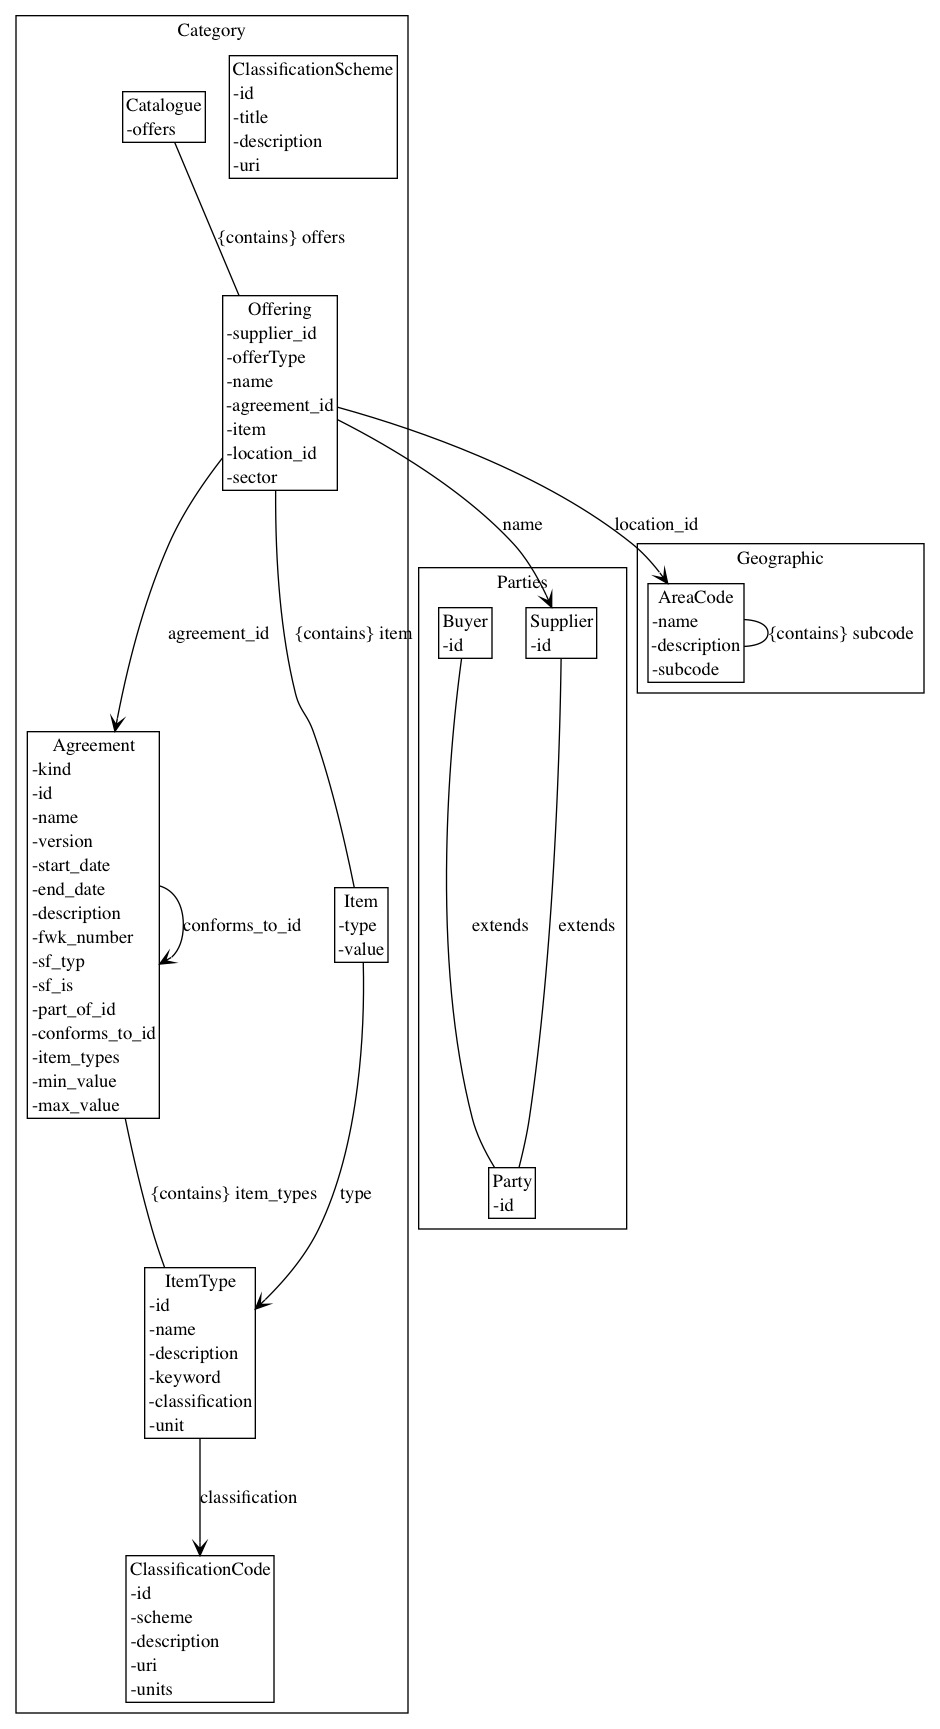
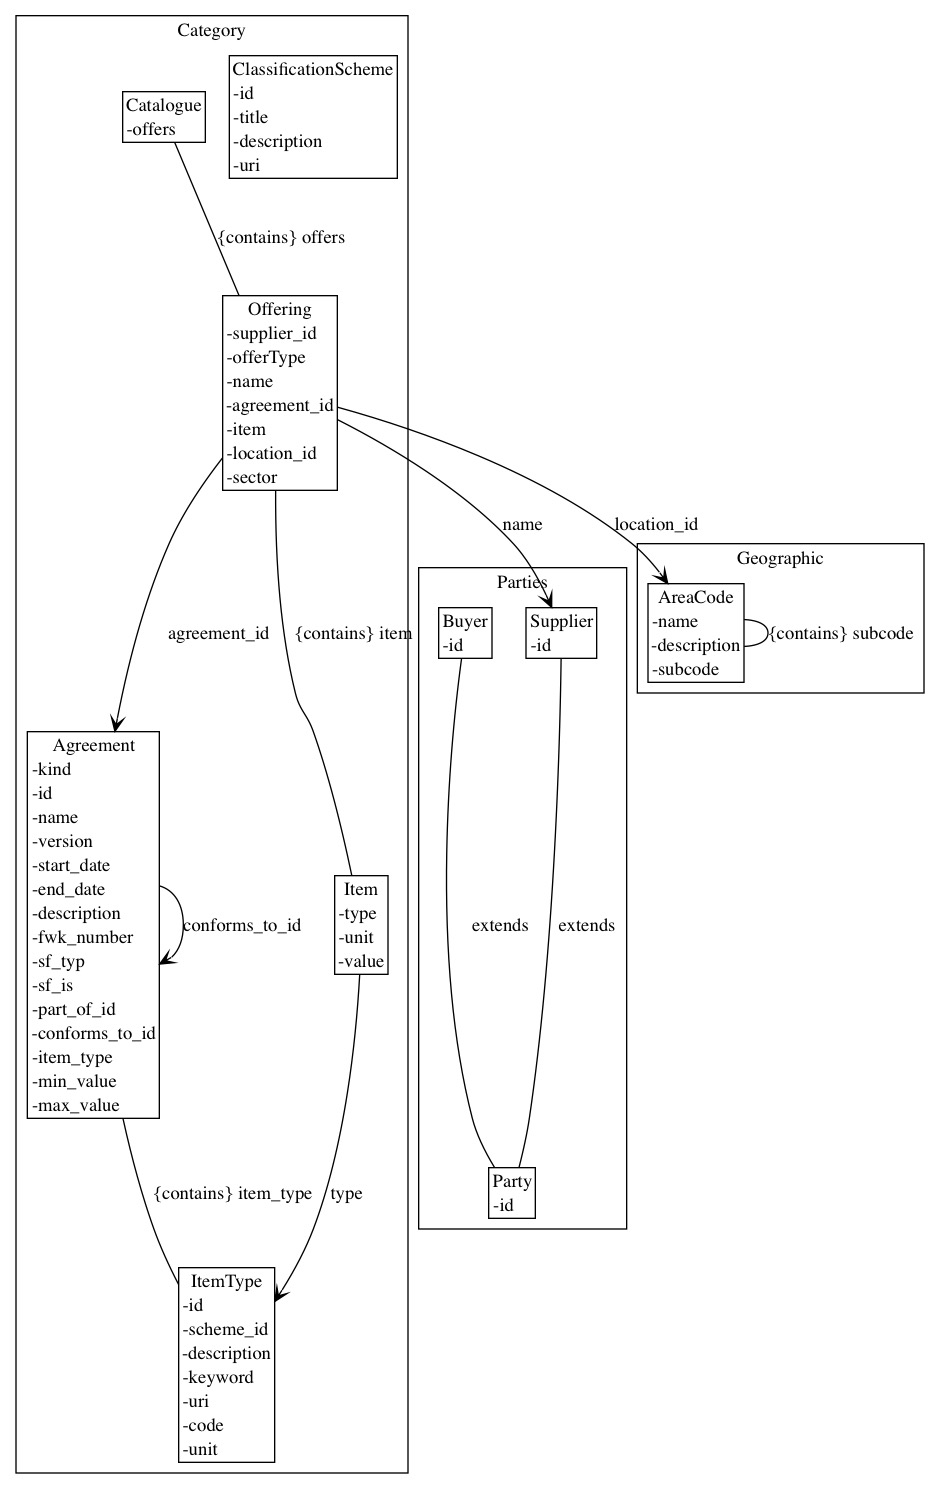
Change fm - simplify item types

diff --git a/agreement-design/model/agreement.rb b/agreement-design/model/agreement.rb
@@ -6,33 +6,26 @@ include DataModel
 domain :Category do
 
   SECTOR = Selection(:ALL, :Education, :CentralGov, :WiderGov, :Etc)
-
+  UNITS = Selection(:Area, :Currency)
   CLASSIFICATION_SCHEMES = Selection(:CPV, :CPVS, :UNSPSC, :CPV, :OKDP, :OKPD, :CCS)
+
   datatype(:ClassificationScheme,
-           description: " Defines the items that can be offered in any given agreement ") {
+           description: " Defines the standards schemes for items ") {
     attribute :id, CLASSIFICATION_SCHEMES, "The classiciation SCHEME id"
     attribute :title, String
     attribute :description, String
     attribute :uri, String, "URL of source. See http://standard.open-contracting.org/latest/en/schema/codelists/#item-classification-scheme"
   }
 
-  datatype(:ClassificationCode,
-           description: " Defines the items that can be offered in any given agreement ") {
-    attribute :id, String, "The code id, which must be unique across all schemes"
-    attribute :scheme, CLASSIFICATION_SCHEMES, "The classiciation scheme id"
-    attribute :description, String
-    attribute :uri, String, ZERO_TO_MANY, " URI for the code "
-    attribute :units, Selection(:Area, :Currency), " define the units, if one units matches "
-  }
-
   datatype(:ItemType,
-           description: " Defines the items that can be offered in any given agreement ") {
-    attribute :id, String
-    attribute :name, String
+           description: " Defines the items that can be offered in any selected agreements ") {
+    attribute :id, String, "The code id, which must be unique across all schemes"
+    attribute :scheme_id, CLASSIFICATION_SCHEMES, "The classiciation scheme id"
     attribute :description, String
     attribute :keyword, String, ZERO_TO_MANY
-    attribute :classification, String, ZERO_TO_MANY, " The classification code drawn from the selected scheme ", links: :ClassificationCode
-    attribute :unit, Selection(:Area, :Currency), " define the units "
+    attribute :uri, String, " URI for the code within the scheme defining this type "
+    attribute :code, String, " Code within the scheme defining this type "
+    attribute :unit, UNITS, " define the units, if one units matches "
   }
 
   datatype(:Agreement,
@@ -55,7 +48,7 @@ domain :Category do
     # structure of agreement
     attribute :part_of_id, String, "Agreement this is part of, applicable only to Lots", links: :Agreement
     attribute :conforms_to_id, String, "Agreement this conforms to, such as a Contract conforming to a Framework", links: :Agreement
-    attribute :item_types, :ItemType, ZERO_TO_MANY,
+    attribute :item_type, :ItemType, ZERO_TO_MANY,
               "describe the items that can be offered under the agreement"
 
     # Qualifications
@@ -66,7 +59,8 @@ domain :Category do
 
   datatype(:Item,
            description: "Specifices the items that are being offered for an agreement") {
-    attribute :type, String, "description of the item", links: :ItemType
+    attribute :type, String, ZERO_TO_MANY, " type of the item ", links: :ItemType
+    attribute :unit, UNITS, " define the units "
     attribute :value, Object, "an object of the type matching type->units"
   }
 

diff --git a/agreement-design/model/fm.rb b/agreement-design/model/fm.rb
@@ -28,15 +28,22 @@ Category.new :FM_Agreements do
     min_value 0
     max_value 70000000
     version "0.1.0"
-    item_types do
+    item_type do
       id ENV_CLEANING
-      name "environmental cleaning service"
+      scheme_id :CCS
       unit :Currency
-      classification "CCS-building-area-method"
+      code "CCS-building-area-method"
       keyword "cleaning"
       keyword "washing"
       keyword "janitor"
     end
+  end
+
+  classificationscheme do
+    id :CCS
+    title "CCS invented schemes"
+    description ""
+    uri ""
   end
 
 end

diff --git a/agreement-design/gen/doc/metamodel.md b/agreement-design/gen/doc/metamodel.md
@@ -1,5 +1,5 @@
 ## ClassificationScheme
-   Defines the items that can be offered in any given agreement 
+   Defines the standards schemes for items 
 
 |attribute|type|multiplicity|description|
 |---------|----|------------|-----------|
@@ -7,27 +7,18 @@
 |title|String|1||
 |description|String|1||
 |uri|String|1|URL of source. See http://standard.open-contracting.org/latest/en/schema/codelists/#item-classification-scheme|
-## ClassificationCode
-   Defines the items that can be offered in any given agreement 
+## ItemType
+   Defines the items that can be offered in any selected agreements 
 
 |attribute|type|multiplicity|description|
 |---------|----|------------|-----------|
 |id|String|1|The code id, which must be unique across all schemes|
-|scheme|(CPV,CPVS,UNSPSC,CPV,OKDP,OKPD,CCS)|1|The classiciation scheme id|
-|description|String|1||
-|uri|String|*| URI for the code |
-|units|(Area,Currency)|1| define the units, if one units matches |
-## ItemType
-   Defines the items that can be offered in any given agreement 
-
-|attribute|type|multiplicity|description|
-|---------|----|------------|-----------|
-|id|String|1||
-|name|String|1||
+|scheme_id|(CPV,CPVS,UNSPSC,CPV,OKDP,OKPD,CCS)|1|The classiciation scheme id|
 |description|String|1||
 |keyword|String|*||
-|classification|String -> Category::ClassificationCode|*| The classification code drawn from the selected scheme |
-|unit|(Area,Currency)|1| define the units |
+|uri|String|1| URI for the code within the scheme defining this type |
+|code|String|1| Code within the scheme defining this type |
+|unit|(Area,Currency)|1| define the units, if one units matches |
 ## Agreement
   General definition of Commercial Agreements
 
@@ -45,7 +36,7 @@
 |sf_is|String|1|SalesForce row id|
 |part_of_id|String -> Category::Agreement|1|Agreement this is part of, applicable only to Lots|
 |conforms_to_id|String -> Category::Agreement|1|Agreement this conforms to, such as a Contract conforming to a Framework|
-|item_types|Category::ItemType|*|describe the items that can be offered under the agreement|
+|item_type|Category::ItemType|*|describe the items that can be offered under the agreement|
 |min_value|Integer|0..1|Minimum value of award, in pounds sterling|
 |max_value|Integer|0..1|Maximum value of award, in pounds sterling|
 ## Item
@@ -53,7 +44,8 @@
 
 |attribute|type|multiplicity|description|
 |---------|----|------------|-----------|
-|type|String -> Category::ItemType|1|description of the item|
+|type|String -> Category::ItemType|*| type of the item |
+|unit|(Area,Currency)|1| define the units |
 |value|Object|1|an object of the type matching type->units|
 ## Offering
    Supplier offering against an item, given a number of constraints. This may be extended for different agreements 

diff --git a/agreement-design/gen/doc/frameworks.md b/agreement-design/gen/doc/frameworks.md
@@ -13,14 +13,19 @@
    - min_value.1 0
    - max_value.1 70000000
    - version 0.1.0
-#### environmental cleaning service FM.1a-C.3 
+#### item_type FM.1a-C.3 
      - id FM.1a-C.3
-     - name environmental cleaning service
+     - scheme_id CCS
      - unit Currency
-     - classification.1 CCS-building-area-method
+     - code CCS-building-area-method
      - keyword.1 cleaning
      - keyword.2 washing
      - keyword.3 janitor
+### classificationscheme CCS 
+   - id CCS
+   - title CCS invented schemes
+   - description 
+   - uri 
 ### XYZ's nifty school cleaning service  
    - supplier_id XYZ corp
    - name XYZ's nifty school cleaning service
@@ -29,5 +34,5 @@
    - sector.1 Education
    - sc_cleared TRUE
 #### item  
-     - type FM.1a-C.3
+     - type.1 FM.1a-C.3
      - value 3000
